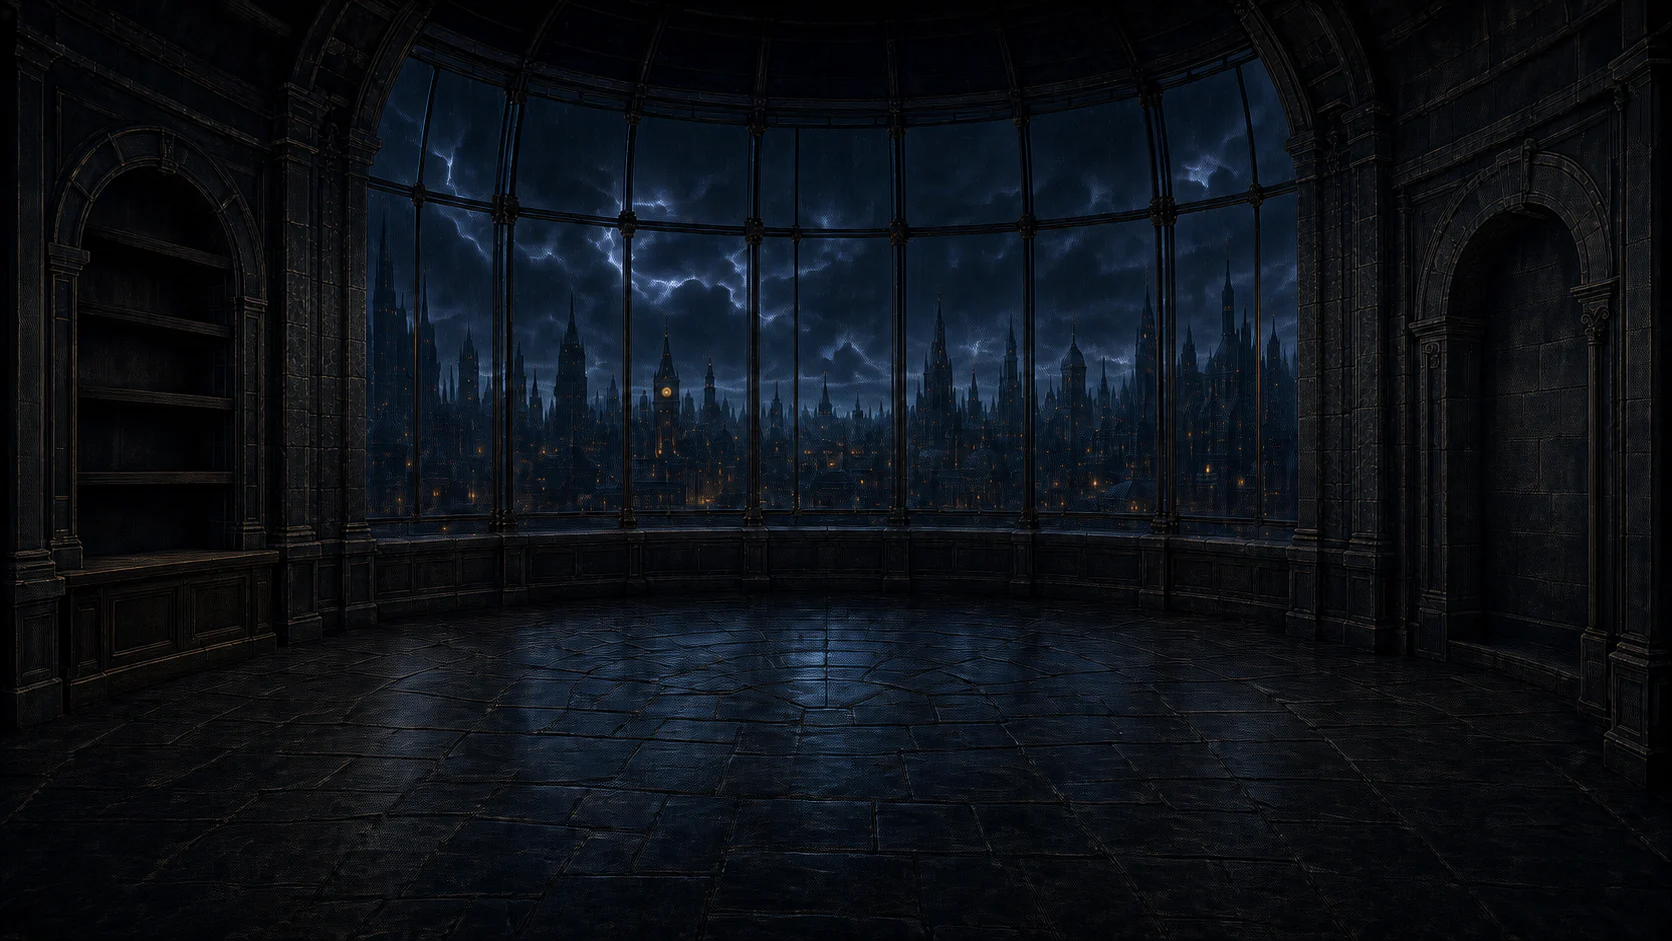
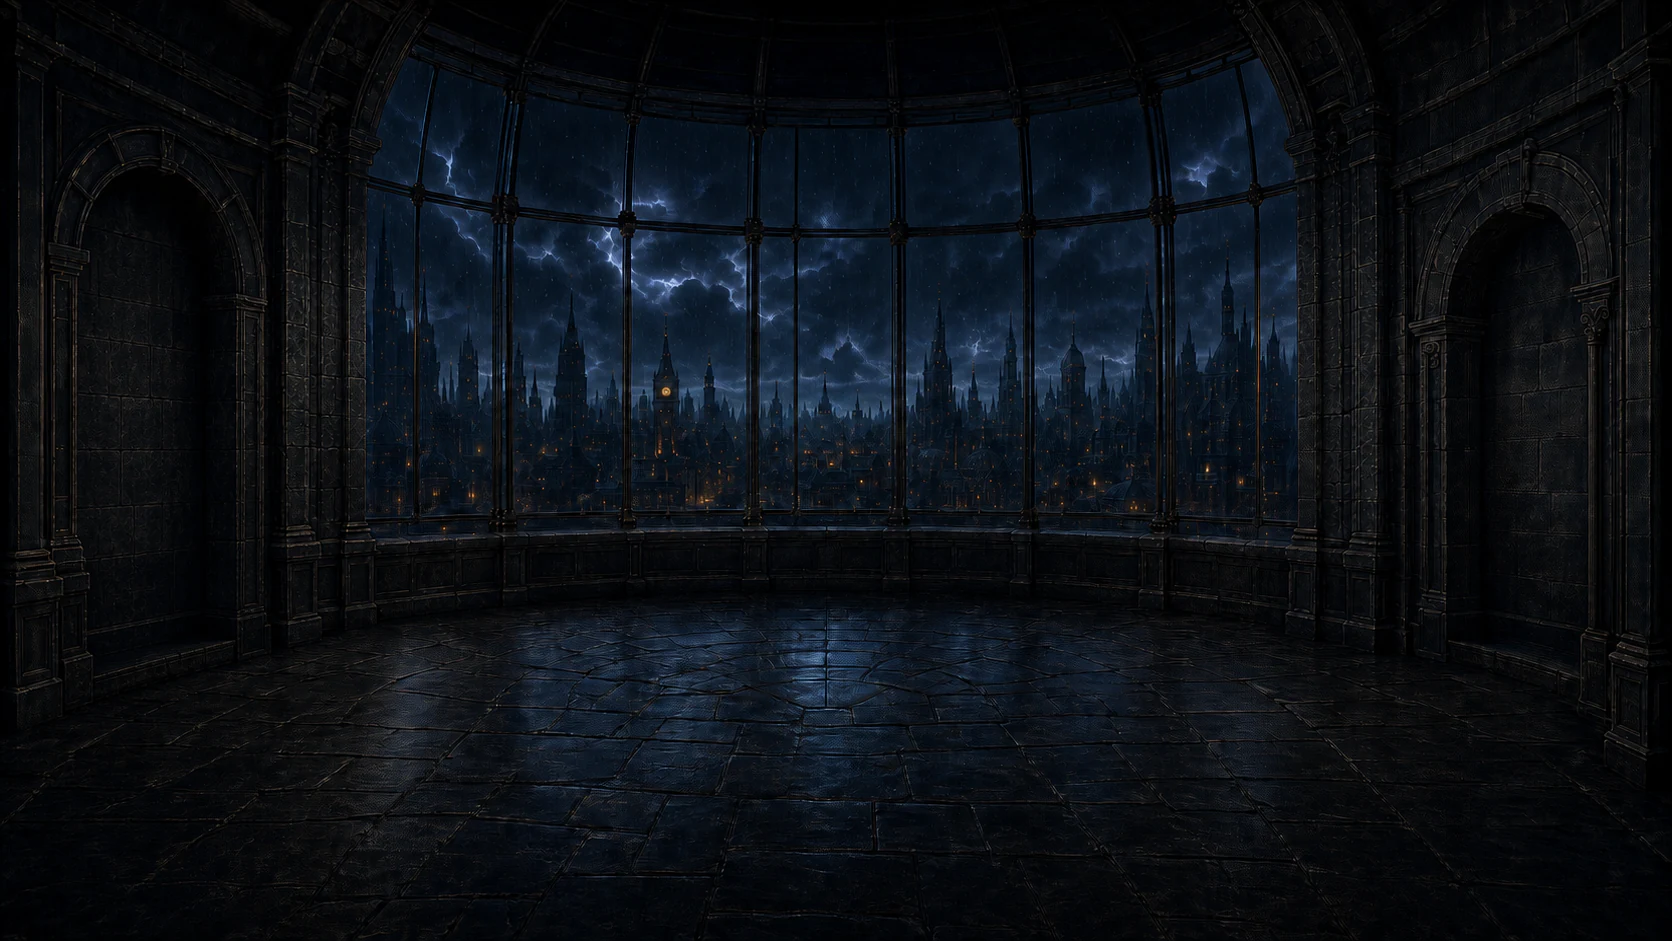
Fix observatory scene placement and atmosphere

diff --git a/assets/styles.css b/assets/styles.css
@@ -47,8 +47,8 @@ a:focus-visible { outline: 1px solid var(--green-bright); outline-offset: 4px; }
 .observatory-scene {
   position: relative;
   width: 100%;
-  min-height: 640px;
-  height: min(calc(100vh - 78px), 940px);
+  min-height: 560px;
+  height: min(calc(100vh - 78px), 46vw, 720px);
   overflow: hidden;
   isolation: isolate;
   background: #050708;
@@ -62,7 +62,7 @@ a:focus-visible { outline: 1px solid var(--green-bright); outline-offset: 4px; }
   height: 100%;
   object-fit: cover;
   object-position: center;
-  filter: brightness(.83) saturate(.84) contrast(1.04);
+  filter: brightness(.9) saturate(.86) contrast(1.03);
 }
 .observatory-scene::before {
   content: "";
@@ -78,9 +78,9 @@ a:focus-visible { outline: 1px solid var(--green-bright); outline-offset: 4px; }
 .window-weather {
   position: absolute;
   z-index: 1;
-  left: 20%;
+  left: 15%;
   top: 4%;
-  width: 61%;
+  width: 70%;
   height: 53%;
   overflow: hidden;
   clip-path: ellipse(65% 75% at 50% 43%);
@@ -160,8 +160,8 @@ a:focus-visible { outline: 1px solid var(--green-bright); outline-offset: 4px; }
   height: 3px;
   border-top: 1px solid #4b3623;
 }
-.lantern-left { left: 19.25%; top: 28%; }
-.lantern-right { right: 20%; top: 28.5%; animation-delay: -3.2s; }
+.lantern-left { left: 8.6%; top: 30%; }
+.lantern-right { right: 37%; top: 29.5%; animation-delay: -3.2s; }
 
 .observatory-id {
   position: absolute;
@@ -201,7 +201,7 @@ a:focus-visible { outline: 1px solid var(--green-bright); outline-offset: 4px; }
   width: 100%;
   height: auto;
   pointer-events: none;
-  filter: brightness(.7) saturate(.72) drop-shadow(0 10px 10px rgba(0, 0, 0, .72));
+  filter: brightness(.76) saturate(.76) drop-shadow(0 10px 10px rgba(0, 0, 0, .72));
   transition: filter .3s ease, transform .3s ease;
 }
 .scene-object::after {
@@ -272,20 +272,23 @@ a:focus-visible { outline: 1px solid var(--green-bright); outline-offset: 4px; }
 }
 
 .telescope {
-  left: 24%;
-  top: 17%;
-  width: 24%;
+  left: 15%;
+  top: 14%;
+  width: 17%;
 }
+.telescope img { transform: scaleX(-1); }
 .telescope:not(:hover):not(:focus-visible) img {
   filter: brightness(.8) saturate(.77) drop-shadow(0 13px 12px rgba(0, 0, 0, .72));
 }
+.telescope:hover img,
+.telescope:focus-visible img { transform: scaleX(-1) translateY(-2px); }
 .telescope .object-label { left: -9%; top: -2%; }
 .telescope .object-label::after { left: 100%; top: 60%; width: 38px; }
 
 .workbench {
-  left: 3.5%;
-  bottom: 1.5%;
-  width: 29%;
+  left: 2.5%;
+  bottom: .5%;
+  width: 25%;
 }
 .workbench .object-label { left: 13%; top: -9%; }
 .workbench .object-label::after { left: 22%; top: 100%; width: 1px; height: 30px; }
@@ -305,9 +308,9 @@ a:focus-visible { outline: 1px solid var(--green-bright); outline-offset: 4px; }
 }
 
 .terminal {
-  left: 36%;
-  bottom: 1.8%;
-  width: 15.5%;
+  left: 29%;
+  bottom: 4%;
+  width: 12.5%;
   z-index: 13;
 }
 .terminal img { filter: brightness(.76) saturate(.78) drop-shadow(0 12px 11px rgba(0, 0, 0, .75)); }
@@ -325,32 +328,25 @@ a:focus-visible { outline: 1px solid var(--green-bright); outline-offset: 4px; }
   animation: screen-flicker 8s steps(1, end) infinite;
   pointer-events: none;
 }
-.terminal-display {
+.terminal-screen-cursor {
   position: absolute;
   z-index: 3;
-  left: 18%;
-  top: 10%;
-  width: 61%;
-  height: 34%;
-  overflow: hidden;
-  color: rgba(163, 235, 135, .83);
-  font-size: clamp(3px, .38vw, 6px);
-  line-height: 1.32;
-  text-shadow: 0 0 4px rgba(131, 237, 105, .48);
-  transform: perspective(180px) rotateX(.8deg);
+  left: 28%;
+  top: 35%;
+  width: 8%;
+  height: 1.5%;
+  background: rgba(176, 255, 152, .86);
+  box-shadow: 0 0 4px rgba(131, 237, 105, .54);
+  animation: cursor 1.15s step-end infinite;
   pointer-events: none;
 }
-.terminal-display b,
-.terminal-display span { display: block; }
-.terminal-display b { margin-bottom: .25em; color: #a5ee90; font-weight: 400; }
-.terminal-cursor { color: #b0ff98; animation: cursor 1.15s step-end infinite; }
 .terminal .object-label { right: 96%; top: 8%; }
 .terminal .object-label::after { left: 100%; top: 58%; width: 30px; }
 
 .archive {
-  right: 15.5%;
-  bottom: 4.5%;
-  width: 10.5%;
+  right: 18%;
+  bottom: 8%;
+  width: 9%;
 }
 .archive:not(:hover):not(:focus-visible) img,
 .door:not(:hover):not(:focus-visible) img {
@@ -360,9 +356,9 @@ a:focus-visible { outline: 1px solid var(--green-bright); outline-offset: 4px; }
 .archive .object-label::after { left: 100%; top: 58%; width: 27px; }
 
 .door {
-  right: 1.3%;
-  top: 20.5%;
-  width: 11.8%;
+  right: 2.5%;
+  bottom: -.5%;
+  width: 10.5%;
 }
 .door .object-label { right: 85%; top: 28%; }
 .door .object-label::after { left: 100%; top: 58%; width: 28px; }
@@ -370,10 +366,10 @@ a:focus-visible { outline: 1px solid var(--green-bright); outline-offset: 4px; }
 .whisperer {
   position: absolute;
   z-index: 11;
-  right: 24%;
-  bottom: -.5%;
-  width: 30%;
-  aspect-ratio: 1.18;
+  right: 28%;
+  bottom: 1%;
+  width: 19.5%;
+  aspect-ratio: .71;
   pointer-events: none;
 }
 .whisperer-core {
@@ -383,23 +379,27 @@ a:focus-visible { outline: 1px solid var(--green-bright); outline-offset: 4px; }
   bottom: 0;
   width: 100%;
   height: auto;
-  filter: brightness(.61) saturate(.64) drop-shadow(0 15px 14px rgba(0, 0, 0, .78));
+  filter: brightness(.78) saturate(.74) drop-shadow(0 15px 14px rgba(0, 0, 0, .78));
 }
 .whisperer-wisps {
   position: absolute;
-  z-index: 1;
-  right: -27%;
-  bottom: 2%;
-  width: 136%;
-  height: 132%;
+  z-index: 3;
+  left: -111%;
+  bottom: -5%;
+  width: 320%;
+  height: 100%;
   overflow: visible;
-  opacity: .68;
+  opacity: .94;
+  mix-blend-mode: screen;
 }
-.wisp { stroke-width: 13; transform-box: fill-box; transform-origin: 20% 85%; }
-.wisp-one { animation: wisp-rise 21s ease-in-out infinite; }
-.wisp-two { stroke-width: 9; opacity: .74; animation: wisp-rise 27s ease-in-out -9s infinite reverse; }
-.wisp-three { stroke-width: 7; opacity: .58; animation: wisp-breathe 18s ease-in-out -5s infinite; }
-.wisp-four { stroke-width: 6; opacity: .45; animation: wisp-rise 31s ease-in-out -17s infinite; }
+.wisp { stroke-width: 15; transform-box: fill-box; transform-origin: 50% 75%; }
+.wisp-left-one { animation: wisp-left 24s ease-in-out infinite; }
+.wisp-left-two { stroke-width: 11; opacity: .78; animation: wisp-left 31s ease-in-out -13s infinite reverse; }
+.wisp-left-rise { stroke-width: 9; opacity: .72; animation: wisp-rise 22s ease-in-out -7s infinite; }
+.wisp-right-one { stroke-width: 12; opacity: .74; animation: wisp-right 29s ease-in-out -11s infinite; }
+.wisp-right-rise { stroke-width: 8; opacity: .62; animation: wisp-rise 27s ease-in-out -17s infinite reverse; }
+.wisp-detail { opacity: .58; filter: blur(.4px); }
+.wisp-detail path { stroke-width: 3.5; }
 
 .site-footer {
   min-height: 78px;
@@ -493,17 +493,21 @@ a:focus-visible { outline: 1px solid var(--green-bright); outline-offset: 4px; }
   95% { opacity: .79; }
 }
 @keyframes wisp-rise {
-  0%, 100% { transform: translate3d(0, 7px, 0) scale(.96) rotate(-1deg); opacity: .38; }
-  48% { transform: translate3d(19px, -19px, 0) scale(1.05) rotate(3deg); opacity: .72; }
+  0%, 100% { transform: translate3d(0, 5px, 0) scale(.97); opacity: .34; }
+  50% { transform: translate3d(9px, -14px, 0) scale(1.04); opacity: .7; }
 }
-@keyframes wisp-breathe {
-  0%, 100% { transform: translate3d(0, 4px, 0) scale(.98); opacity: .3; }
-  50% { transform: translate3d(-12px, -13px, 0) scale(1.04); opacity: .6; }
+@keyframes wisp-left {
+  0%, 100% { transform: translate3d(12px, 3px, 0) scaleX(.97); opacity: .35; }
+  50% { transform: translate3d(-16px, -5px, 0) scaleX(1.04); opacity: .72; }
+}
+@keyframes wisp-right {
+  0%, 100% { transform: translate3d(-8px, 4px, 0) scaleX(.98); opacity: .3; }
+  50% { transform: translate3d(15px, -7px, 0) scaleX(1.05); opacity: .64; }
 }
 @keyframes object-pulse { 50% { filter: brightness(1.12) drop-shadow(0 0 12px rgba(124, 255, 101, .34)); } }
 
 @media (max-width: 1100px) {
-  .observatory-scene { min-height: 600px; }
+  .observatory-scene { min-height: 520px; }
   .site-footer { grid-template-columns: 1fr; gap: 8px; text-align: center; }
   .site-footer nav { justify-content: center; }
   .footer-id { order: 3; }
@@ -523,15 +527,14 @@ a:focus-visible { outline: 1px solid var(--green-bright); outline-offset: 4px; }
   .scene-object { pointer-events: none; }
   .object-label { display: none; }
   .lantern-left { left: 19%; top: 27%; }
-  .lantern-right { right: 19%; top: 27%; }
+  .lantern-right { right: 37%; top: 27%; }
   .wall-lantern { transform: scale(.72); }
-  .telescope { left: 23%; top: 15%; width: 25%; }
-  .workbench { left: 1%; bottom: 0; width: 31%; }
-  .terminal { left: 34%; bottom: 1%; width: 17%; }
-  .archive { right: 13%; bottom: 3%; width: 12%; }
-  .door { right: 0; top: 19%; width: 13%; }
-  .whisperer { right: 21%; bottom: -1%; width: 34%; }
-  .terminal-display { font-size: clamp(3px, .58vw, 5px); }
+  .telescope { left: 14%; top: 15%; width: 19%; }
+  .workbench { left: 1%; bottom: 0; width: 28%; }
+  .terminal { left: 29%; bottom: 3%; width: 14%; }
+  .archive { right: 17%; bottom: 7%; width: 10%; }
+  .door { right: 2%; bottom: 0; width: 12%; }
+  .whisperer { right: 27%; bottom: 1%; width: 22%; }
   .mobile-navigation {
     display: grid;
     gap: 6px;
@@ -580,15 +583,14 @@ a:focus-visible { outline: 1px solid var(--green-bright); outline-offset: 4px; }
   }
   .window-weather { left: 13%; width: 74%; }
   .scene-object img { filter: brightness(.68) saturate(.69) drop-shadow(0 5px 5px rgba(0, 0, 0, .61)); }
-  .telescope { left: 17%; top: 17%; width: 33%; }
-  .workbench { left: -7%; bottom: 0; width: 39%; }
-  .terminal { left: 31%; bottom: 1%; width: 22%; }
-  .archive { right: 9%; bottom: 2%; width: 15%; }
-  .door { right: -4%; top: 24%; width: 17%; }
-  .whisperer { right: 15%; bottom: -1%; width: 43%; }
+  .telescope { left: 10%; top: 16%; width: 26%; }
+  .workbench { left: -6%; bottom: 0; width: 37%; }
+  .terminal { left: 28%; bottom: 3%; width: 19%; }
+  .archive,
+  .door { display: none; }
+  .whisperer { right: 19%; bottom: 1%; width: 31%; }
   .lantern-left { left: 12%; }
   .lantern-right { right: 11%; }
-  .terminal-display { font-size: 3px; }
   .site-footer nav { gap: 10px 15px; }
   .interior-shell { min-height: calc(100vh - 110px); }
   .interior-header { align-items: flex-start; flex-direction: column; padding: 17px; }

diff --git a/index.html b/index.html
@@ -43,14 +43,7 @@
         </a>
         <a class="scene-object terminal" href="/logbook/" data-object="terminal" aria-label="Logbook — Recent activity">
           <img src="/assets/img/terminal.png" alt="">
-          <span class="terminal-display" aria-hidden="true">
-            <b>OBSERVATORY ONLINE</b>
-            <span>Signals detected.</span>
-            <span>Three active constructions.</span>
-            <span>One unfinished experiment.</span>
-            <span>Several things worth investigating.</span>
-            <span class="terminal-cursor">&gt; _</span>
-          </span>
+          <span class="terminal-screen-cursor" aria-hidden="true"></span>
           <span class="object-label"><b>logbook</b><small>Recent activity</small></span>
         </a>
         <a class="scene-object archive" href="/archive/" data-object="archive" aria-label="Archive — Notes and history">
@@ -64,22 +57,35 @@
       </nav>
 
       <div class="whisperer" aria-label="The Whisperer watches from the observatory">
-        <svg class="whisperer-wisps" viewBox="0 0 620 470" aria-hidden="true">
+        <svg class="whisperer-wisps" viewBox="0 0 900 390" preserveAspectRatio="none" aria-hidden="true">
           <defs>
             <filter id="wisp-blur" x="-35%" y="-35%" width="170%" height="170%">
-              <feGaussianBlur stdDeviation="8"></feGaussianBlur>
+              <feGaussianBlur stdDeviation="6"></feGaussianBlur>
             </filter>
-            <linearGradient id="wisp-fade" x1="0" y1="1" x2="1" y2="0">
-              <stop offset="0" stop-color="#332954" stop-opacity=".62"></stop>
-              <stop offset=".58" stop-color="#3b5271" stop-opacity=".28"></stop>
-              <stop offset="1" stop-color="#55738d" stop-opacity="0"></stop>
+            <linearGradient id="wisp-left" x1="1" y1=".5" x2="0" y2=".5">
+              <stop offset="0" stop-color="#71608f" stop-opacity=".9"></stop>
+              <stop offset=".42" stop-color="#526b91" stop-opacity=".58"></stop>
+              <stop offset="1" stop-color="#526f88" stop-opacity="0"></stop>
+            </linearGradient>
+            <linearGradient id="wisp-right" x1="0" y1=".5" x2="1" y2=".5">
+              <stop offset="0" stop-color="#71608f" stop-opacity=".86"></stop>
+              <stop offset=".45" stop-color="#526b91" stop-opacity=".52"></stop>
+              <stop offset="1" stop-color="#526f88" stop-opacity="0"></stop>
             </linearGradient>
           </defs>
-          <g filter="url(#wisp-blur)" fill="none" stroke="url(#wisp-fade)" stroke-linecap="round">
-            <path class="wisp wisp-one" d="M236 376 C290 340 270 292 325 255 S390 178 354 122"></path>
-            <path class="wisp wisp-two" d="M302 391 C360 351 335 307 404 281 S491 218 455 164"></path>
-            <path class="wisp wisp-three" d="M193 402 C230 362 203 331 243 301 S282 232 251 196"></path>
-            <path class="wisp wisp-four" d="M350 411 C406 375 408 337 478 318 S555 274 540 225"></path>
+          <g filter="url(#wisp-blur)" fill="none" stroke-linecap="round">
+            <path class="wisp wisp-left-one" stroke="url(#wisp-left)" d="M458 286 C399 277 370 312 306 303 S196 267 62 300"></path>
+            <path class="wisp wisp-left-two" stroke="url(#wisp-left)" d="M451 305 C377 322 347 348 274 337 S148 323 21 354"></path>
+            <path class="wisp wisp-left-rise" stroke="url(#wisp-left)" d="M450 284 C404 258 417 224 370 205 S326 151 351 116"></path>
+            <path class="wisp wisp-right-one" stroke="url(#wisp-right)" d="M470 294 C531 274 568 315 632 302 S751 279 875 316"></path>
+            <path class="wisp wisp-right-rise" stroke="url(#wisp-right)" d="M470 282 C513 252 491 219 530 190 S574 131 551 96"></path>
+          </g>
+          <g class="wisp-detail" fill="none" stroke-linecap="round">
+            <path class="wisp-left-one" stroke="url(#wisp-left)" d="M456 288 C421 270 404 298 374 284 S326 270 289 291 S219 306 170 282"></path>
+            <path class="wisp-left-two" stroke="url(#wisp-left)" d="M453 302 C401 325 367 311 325 335 S229 350 139 329"></path>
+            <path class="wisp-left-rise" stroke="url(#wisp-left)" d="M452 283 C429 254 446 232 419 210 S397 164 410 140"></path>
+            <path class="wisp-right-one" stroke="url(#wisp-right)" d="M470 298 C510 319 537 288 574 310 S643 337 704 310"></path>
+            <path class="wisp-right-rise" stroke="url(#wisp-right)" d="M469 283 C493 256 480 237 505 215 S535 170 523 146"></path>
           </g>
         </svg>
         <img class="whisperer-core" src="/assets/img/whisperer-core.png" alt="">